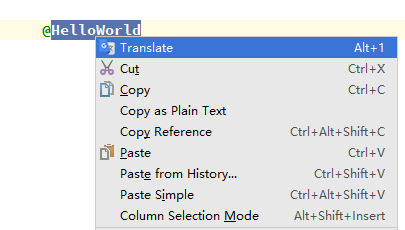
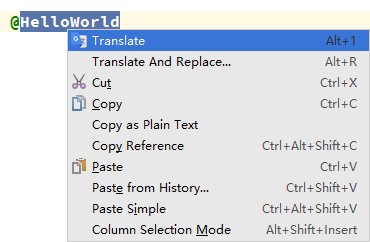
新版本说明

Changed region(s): [[0.0, 0.0304, 1.0, 1.0]]

diff --git a/start.html b/start.html
@@ -69,15 +69,15 @@
 
         <h3 class="column_item_title">翻译编辑器中的文本</h3>
         <p class="column_tip">在编辑器中用鼠标指针指向需要翻译的单词，或者选择需要翻译的文本，点击鼠标右键弹出操作菜单，然后点击
-            Translate 即可进行翻译。也可以使用默认快捷键 Alt + 1/2/3 进行操作（Mac下默认快捷键可能无效，需要
+            Translate 即可进行翻译。也可以使用默认快捷键 Alt + 1/2/3/R/T 进行操作（Mac下默认快捷键可能无效，需要
             <a href="#kaymap">自定义快捷键</a>），详见 <a href="#actions">Actions</a>.</p>
-        <div class="column_img"><img width="405" height="230" src="images/editor_popup_menu.png"></div>
+        <div class="column_img"><img width="370" height="242" src="images/editor_popup_menu.png"></div>
 
         <h3 id="kaymap" class="column_item_title">自定义快捷键（Mac下默认快捷键可能无效）</h3>
         <p class="column_tip">打开 Preferences(Settings) > Keymap, 然后搜索 Translation. 在需要修改快捷键的
             <a href="#actions">Action</a> 上点击鼠标右键，然后点击 "add Keyboard Shortcut..." 设置新的快捷键。
             另外，按 ESC 键可关闭气泡和翻译对话框。</p>
-        <div class="column_img"><img width="641" height="171" src="images/keymap.png"></div>
+        <div class="column_img"><img width="595" height="215" src="images/keymap.png"></div>
 
         <h3 class="column_item_title">设置有道 API KEY</h3>
         <p class="column_tip">在<a href="#settings">设置页</a>（Preferences(Settings) > Other Settings > Translation）
@@ -104,36 +104,48 @@
 
     <div class="column">
         <h2 id="actions" class="column_title">Actions</h2>
-        <p class="column_tip">TranslationPlugin有四个操作动作，它们分别是：<b>Translation</b>, <b>Translate</b>,
-            <b>Translate(Inclusive)</b> 和 <b>Translate(Exclusive)</b>. 其功能如下：</p>
         <ul>
             <li>
-                <b>Translation</b> [Alt + 0]: 打开翻译对话框，默认显示在工具栏上。
+                <b>Show Translation Dialog...:</b> <kbd>Alt + 0</kbd> 打开翻译对话框。默认显示在工具栏上。
             </li>
         </ul>
         <div class="column_img"><img width="451" height="528" src="images/action0.gif"></div>
 
         <ul>
             <li>
-                <b>Translate</b> [Alt + 1]: 取词并翻译。如果有已选择的文本，优先从选择的文本内取词，否则默认以最大范围自动取词
-                （该取词模式可在Settings中配置）。该动作按钮默认显示在编辑器右键菜单上。
+                <b>Translate:</b> <kbd>Alt + 1</kbd>
+                取词并翻译。如果有已选择的文本，优先从选择的文本内取词，否则默认以最大范围自动取词（该取词模式可在Settings中配置）。默认显示在编辑器右键菜单上。
             </li>
         </ul>
         <div class="column_img"><img width="407" height="366" src="images/action1.gif"></div>
 
         <ul>
             <li>
-                <b>Translate(Inclusive)</b> [Alt + 2]: 取词并翻译。自动以最大范围取最近的所有词，忽略手动选择的文本。
+                <b>Translate(Inclusive):</b> <kbd>Alt + 2</kbd> 取词并翻译。自动以最大范围取最近的所有词，忽略手动选择的文本。
             </li>
         </ul>
         <div class="column_img"><img width="386" height="315" src="images/action2.gif"></div>
 
         <ul>
             <li>
-                <b>Translate(Exclusive)</b> [Alt + 3]: 取词并翻译。自动取最近的单个词，忽略手动选择的文本。
+                <b>Translate(Exclusive):</b> <kbd>Alt + 3</kbd> 取词并翻译。自动取最近的单个词，忽略手动选择的文本。
             </li>
         </ul>
         <div class="column_img"><img width="466" height="372" src="images/action3.gif"></div>
+
+        <ul>
+            <li>
+                <b>Translate And Replace...:</b> <kbd>Alt + R</kbd> 翻译并替换。取词方式同<b>Translate</b>操作。默认显示在编辑器右键菜单上。
+            </li>
+        </ul>
+        <div class="column_img"><img width="400" height="250" src="images/replace.gif"></div>
+
+        <ul>
+            <li>
+                <b>Translate Text Component:</b> <kbd>Alt + T</kbd> 翻译一些文本组件（如快速文档、提示气泡、输入框……）中选中的文本。
+            </li>
+        </ul>
+        <div class="column_img"><img width="400" height="466" src="images/text_component.gif"></div>
     </div>
 </div>
 

diff --git a/stylesheets/stylesheet.css b/stylesheets/stylesheet.css
@@ -15,6 +15,22 @@ body {
     font-family: "Open Sans", "Helvetica Neue", Helvetica, Arial, "PingFang SC", "Hiragino Sans GB", STHeiti, "Microsoft YaHei", sans-serif;
 }
 
+kbd {
+    display: inline-block;
+    padding: 3px 5px;
+    font-size: 15px;
+    line-height: 16px;
+    color: #555;
+    vertical-align: middle;
+    background-color: #fcfcfc;
+    border: solid 1px #ccc;
+    border-bottom-color: #bbb;
+    border-radius: 3px;
+    box-shadow: inset 0 -1px 0 #bbb;
+    margin-left: 2px;
+    margin-right: 2px;
+}
+
 .main-content {
     min-height: 100%;
     padding: 0;
